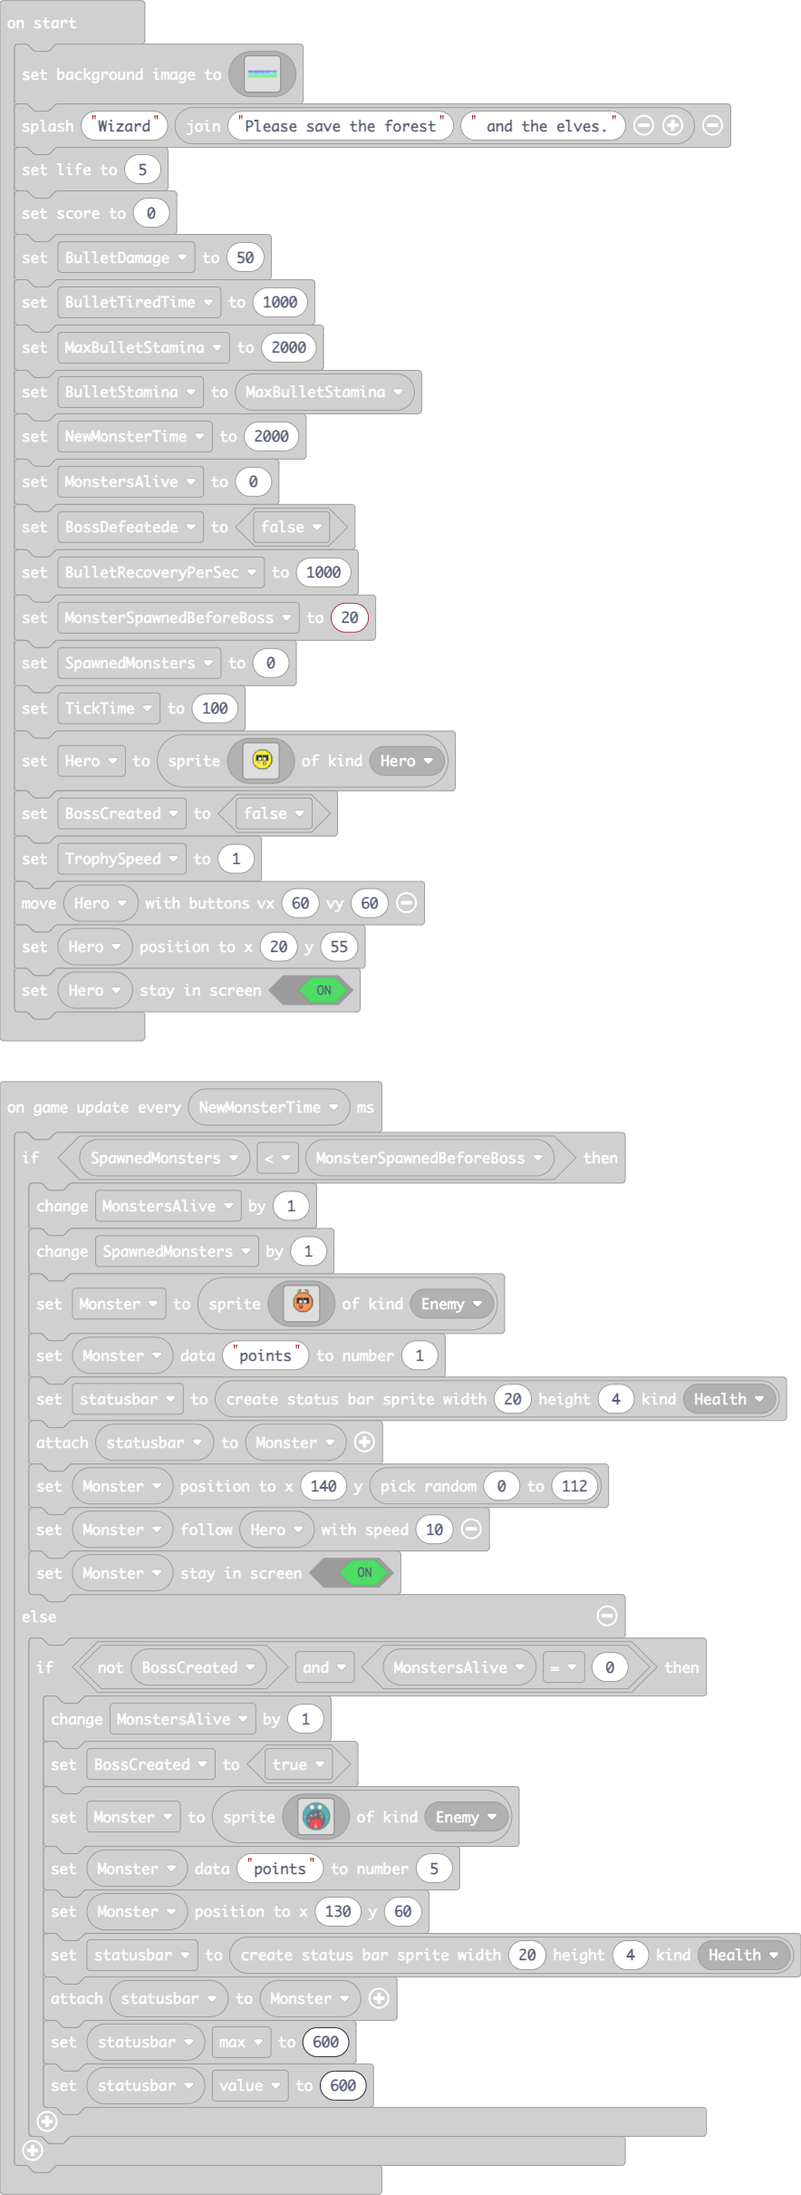
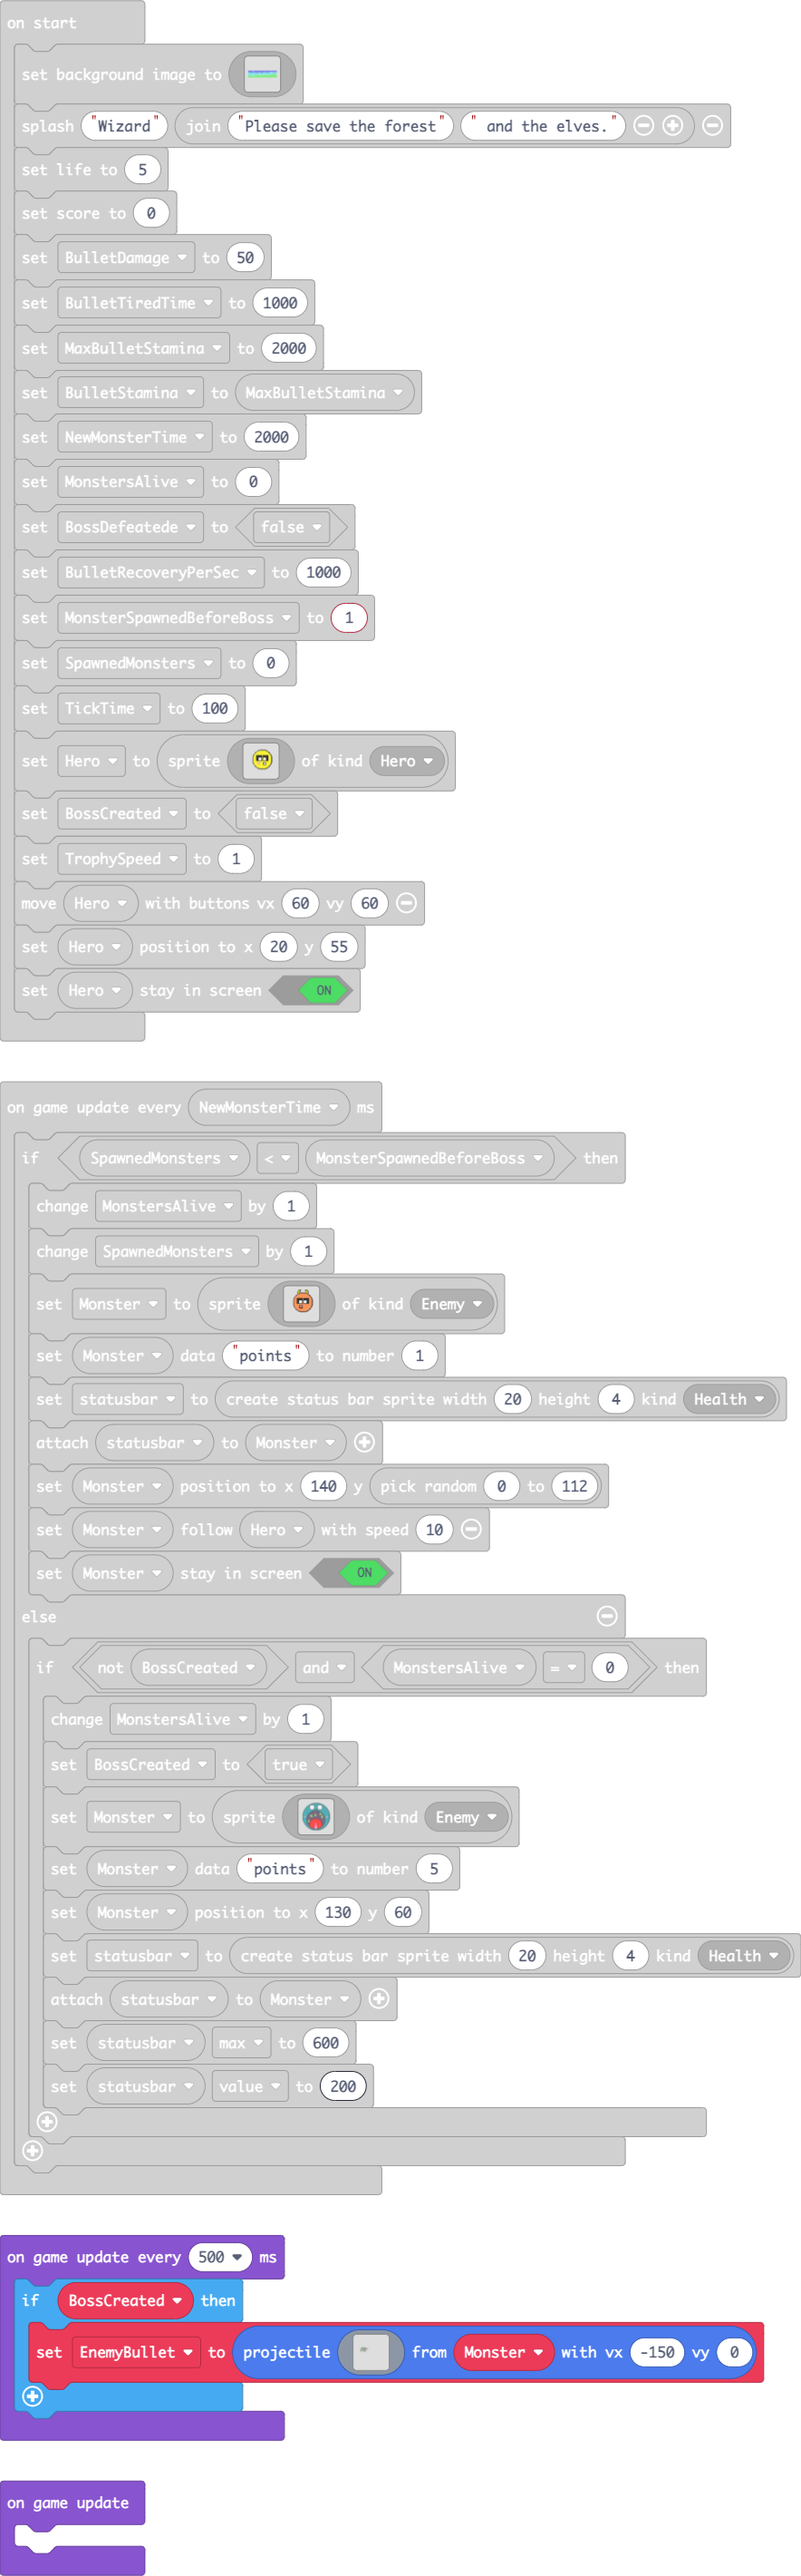
Update main.blocks, main.ts

diff --git a/main.ts b/main.ts
@@ -89,6 +89,7 @@ controller.A.onEvent(ControllerButtonEvent.Released, function () {
         Fire_Ball.setKind(SpriteKind.Bullet)
     }
 })
+let EnemyBullet: Sprite = null
 let statusbar: StatusBarSprite = null
 let Monster: Sprite = null
 let Trophy: Sprite = null
@@ -232,7 +233,7 @@ let NewMonsterTime = 2000
 let MonstersAlive = 0
 let BossDefeatede = false
 let BulletRecoveryPerSec = 1000
-let MonsterSpawnedBeforeBoss = 20
+let MonsterSpawnedBeforeBoss = 1
 let SpawnedMonsters = 0
 let TickTime = 100
 Hero = sprites.create(img`
@@ -292,6 +293,9 @@ let TrophySpeed = 1
 controller.moveSprite(Hero, 60, 60)
 Hero.setPosition(20, 55)
 Hero.setStayInScreen(true)
+game.onUpdate(function () {
+	
+})
 game.onUpdate(function () {
     if (SpawnedMonsters > 0 && (BossCreated && (!(Gameover) && MonstersAlive == 0))) {
         Gameover = true
@@ -579,8 +583,64 @@ game.onUpdateInterval(NewMonsterTime, function () {
             statusbar = statusbars.create(20, 4, StatusBarKind.Health)
             statusbar.attachToSprite(Monster)
             statusbar.max = 600
-            statusbar.value = 600
+            statusbar.value = 200
         }
+    }
+})
+game.onUpdateInterval(500, function () {
+    if (BossCreated) {
+        EnemyBullet = sprites.createProjectileFromSprite(img`
+            ......................................................................
+            ......................................................................
+            ......................................................................
+            ......................................................................
+            ......................................................................
+            ......................................................................
+            ......................................................................
+            ......................................................................
+            ......................................................................
+            ......................................................................
+            ......................................................................
+            ......................................................................
+            ......................................................................
+            ..............f.......................................................
+            ...................f..................................................
+            ............eeee.....f................................................
+            ...........e6666ee..f.................................................
+            ..........e6777766ee.f.f..f...........................................
+            ..........e677777766e.................................................
+            ..........e6777766ee..................................................
+            ...........e6666ee......f.............................................
+            ............eeee.....f................................................
+            .........f......f..f..................................................
+            ..........f.........f.................................................
+            ...................f..................................................
+            ......................................................................
+            ......................................................................
+            ......................................................................
+            ......................................................................
+            ......................................................................
+            ......................................................................
+            ......................................................................
+            ......................................................................
+            ......................................................................
+            ......................................................................
+            ......................................................................
+            ......................................................................
+            ......................................................................
+            ......................................................................
+            ......................................................................
+            ......................................................................
+            ......................................................................
+            ......................................................................
+            ......................................................................
+            ......................................................................
+            ......................................................................
+            ......................................................................
+            ......................................................................
+            ......................................................................
+            ......................................................................
+            `, Monster, -150, 0)
     }
 })
 game.onUpdateInterval(500, function () {
